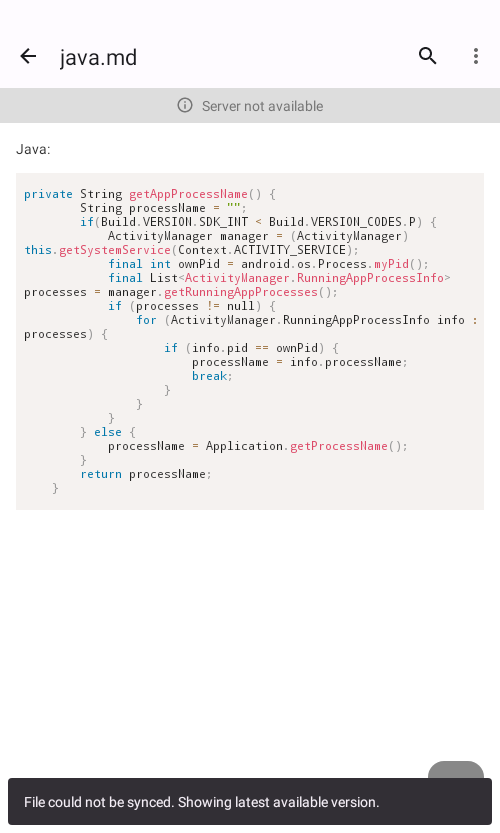
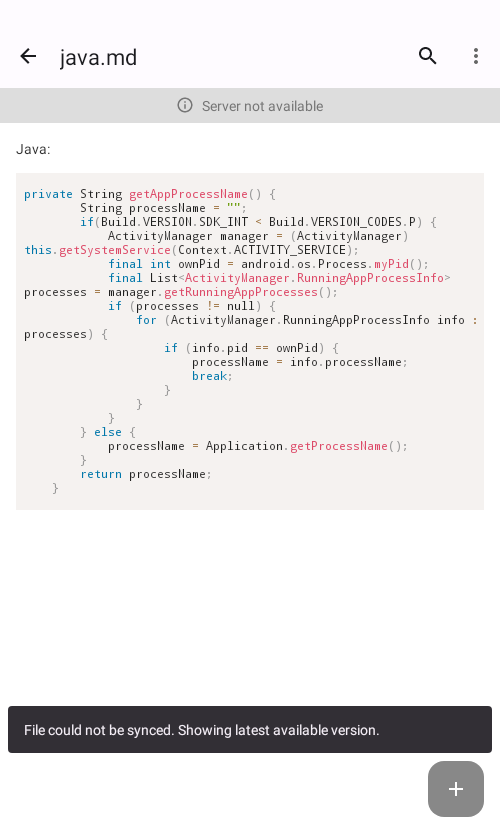
Show snackbar above FAB

Changed region(s): [[0.0, 0.9364, 0.99, 0.9988], [0.0, 0.8427, 0.99, 0.9052]]

diff --git a/app/src/main/java/com/owncloud/android/utils/DisplayUtils.java b/app/src/main/java/com/owncloud/android/utils/DisplayUtils.java
@@ -650,8 +650,20 @@ public final class DisplayUtils {
      */
     public static Snackbar showSnackMessage(Activity activity, String message) {
         final Snackbar snackbar = Snackbar.make(activity.findViewById(android.R.id.content), message, Snackbar.LENGTH_LONG);
+        var fab = findFABView(activity);
+        if (fab != null && fab.getVisibility() == View.VISIBLE) {
+            snackbar.setAnchorView(fab);
+        }
         snackbar.show();
         return snackbar;
+    }
+
+    private static View findFABView(Activity activity) {
+        return activity.findViewById(R.id.fab_main);
+    }
+
+    private static View findFABView(View view) {
+        return view.findViewById(R.id.fab_main);
     }
 
     /**
@@ -663,6 +675,10 @@ public final class DisplayUtils {
      */
     public static Snackbar showSnackMessage(View view, @StringRes int messageResource) {
         final Snackbar snackbar = Snackbar.make(view, messageResource, Snackbar.LENGTH_LONG);
+        var fab = findFABView(view.getRootView());
+        if (fab != null && fab.getVisibility() == View.VISIBLE) {
+            snackbar.setAnchorView(fab);
+        }
         snackbar.show();
         return snackbar;
     }
